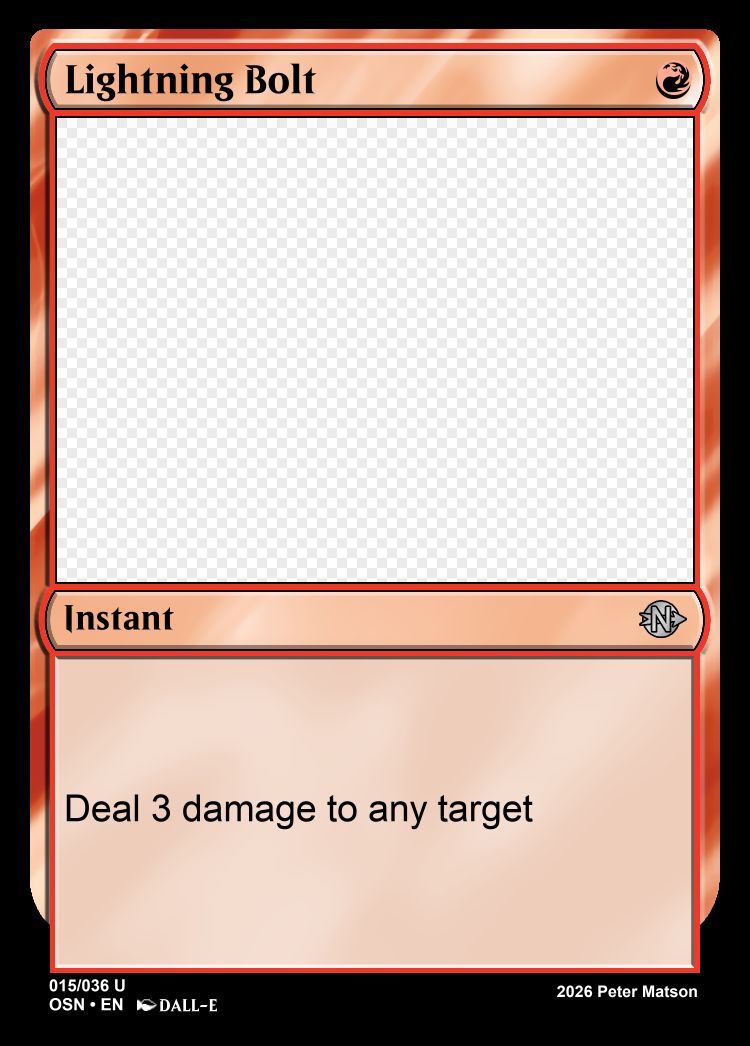
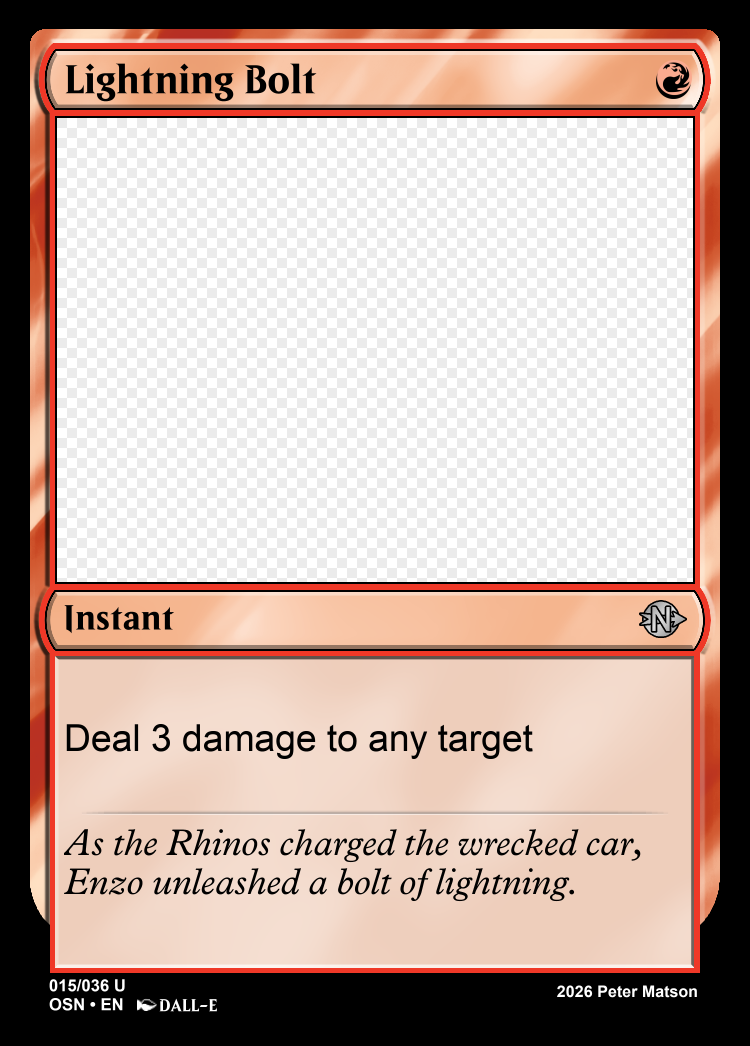
fixed errors in OSN set

Changed region(s): [[0.092, 0.673, 0.8587, 0.8566], [0.2147, 0.673, 0.7053, 0.7342]]

diff --git a/previews/OSN.html b/previews/OSN.html
@@ -279,7 +279,7 @@
 				<div class="container"><img loading="lazy" alt="sets\OSN-files\img\24_Glark, Menacing Entertainer.png" id="OSN_24_Glark, Menacing Entertainer" data-flag="@X" onclick="openSidebar('OSN_24_Glark, Menacing Entertainer',false)"></div>
 				<div class="container"><img loading="lazy" alt="sets\OSN-files\img\21_Boblin, The Goblin.png" id="OSN_21_Boblin, The Goblin" data-flag="@X" onclick="openSidebar('OSN_21_Boblin, The Goblin',false)"></div>
 				<div class="container"><img loading="lazy" alt="img\e.png" id="OSN_e" data-flag="@E" onclick="openSidebar('OSN_e',false)"></div>
-				<div class="container"><img loading="lazy" alt="sets\OSN-files\img\29_Mayor Thomas, TBD.png" id="OSN_29_Mayor Thomas, TBD" data-flag="@X" onclick="openSidebar('OSN_29_Mayor Thomas, TBD',false)"></div>
+				<div class="container"><img loading="lazy" alt="sets\OSN-files\img\29_Mayor Thomas, The Usurped.png" id="OSN_29_Mayor Thomas, The Usurped" data-flag="@X" onclick="openSidebar('OSN_29_Mayor Thomas, The Usurped',false)"></div>
 				<div class="container"><img loading="lazy" alt="img\e.png" id="OSN_e" data-flag="@E" onclick="openSidebar('OSN_e',false)"></div>
 				<div class="container"><img loading="lazy" alt="img\e.png" id="OSN_e" data-flag="@E" onclick="openSidebar('OSN_e',false)"></div>
 				<div class="container"><img loading="lazy" alt="img\e.png" id="OSN_e" data-flag="@E" onclick="openSidebar('OSN_e',false)"></div>
